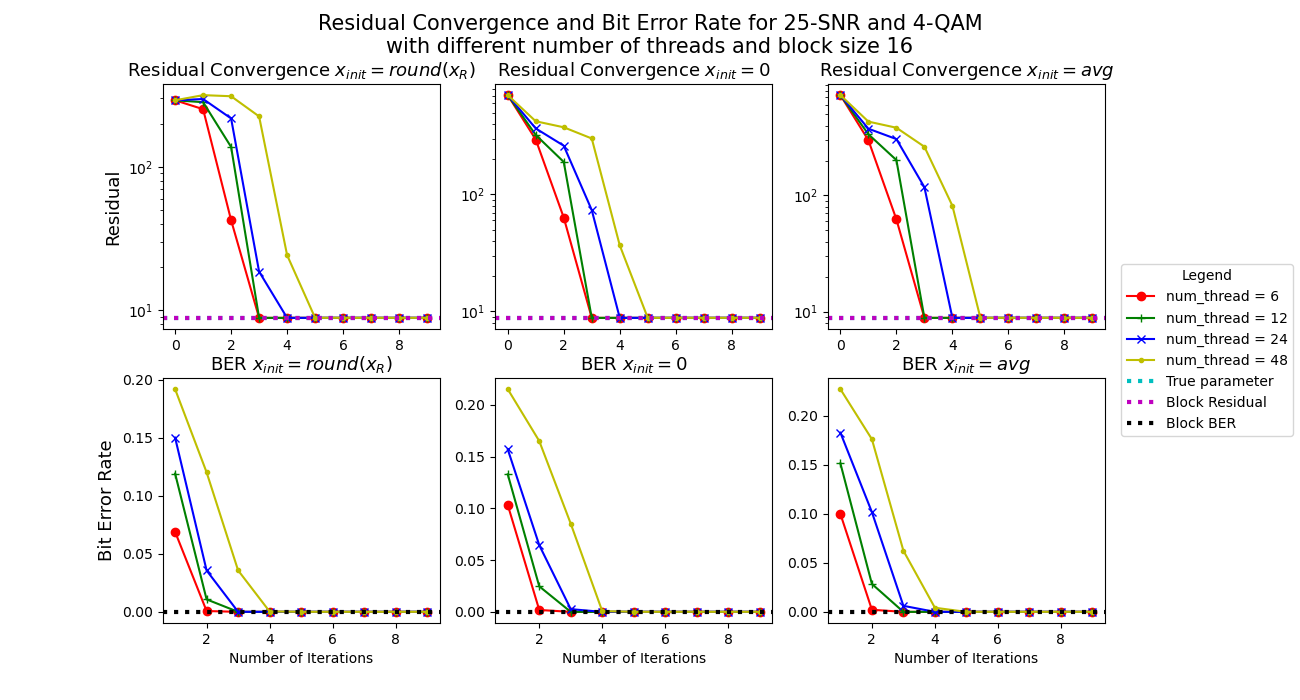
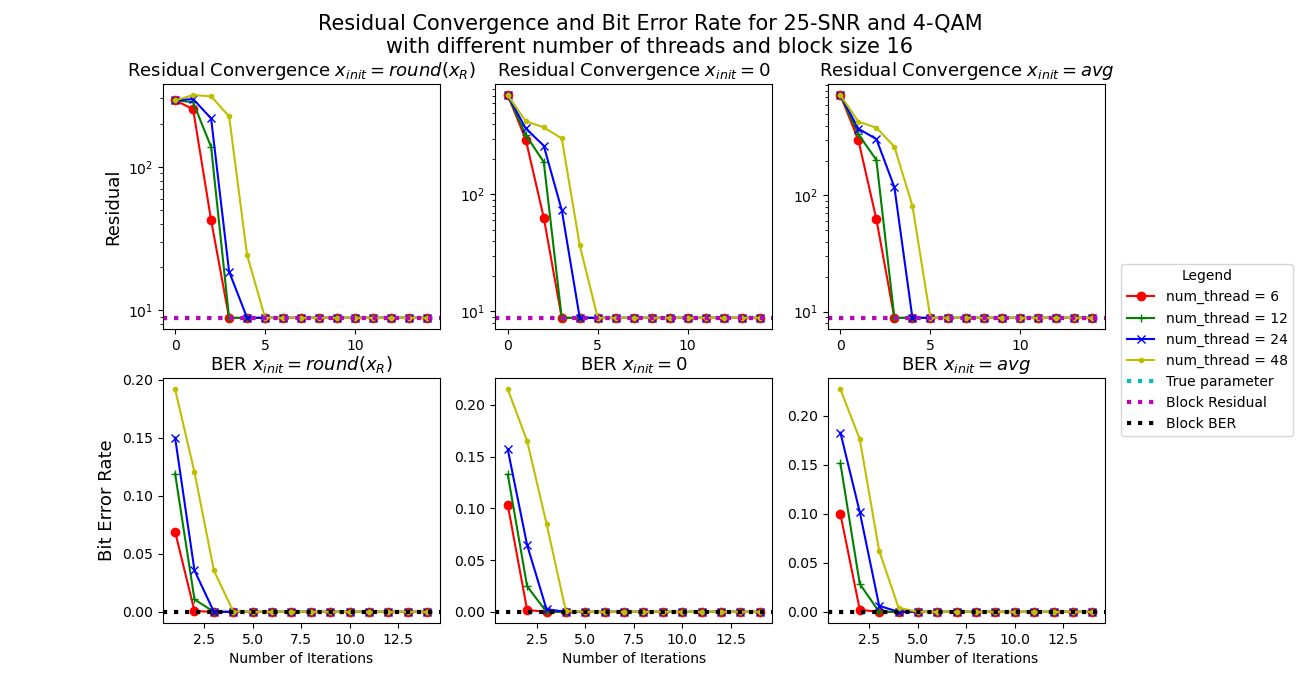
Test R_LLL; Change figures

diff --git a/results/2020_12_05/plot_helper.py b/results/2020_12_05/plot_helper.py
@@ -38,7 +38,7 @@ def plot_residual(n, f, file):
                     res.append(float(line_str[index].split("=")[1]))
                     ber.append(float(line_str[index + 1].split("=")[1]))
                     index = index + 2
-                if SNR != 15:
+                if SNR == 35:
                     if init + 1 == 0:
                         axes[0, init + 1].semilogy(range(0, 10), np.array(res)[0:10], color=color[m],
                                                marker=marker[m], label='num_thread = ' + str(num_thread))
@@ -53,6 +53,21 @@ def plot_residual(n, f, file):
 
                     axes[1, init + 1].plot(range(1, 10), np.array(ber)[1:10], color=color[m],
                                            marker=marker[m])
+                elif SNR == 25:
+                    if init + 1 == 0:
+                        axes[0, init + 1].semilogy(range(0, 15), np.array(res)[0:15], color=color[m],
+                                                   marker=marker[m], label='num_thread = ' + str(num_thread))
+
+                    else:
+                        axes[0, init + 1].semilogy(range(0, 15), np.array(res)[0:15], color=color[m],
+                                                   marker=marker[m])
+                        # axes[0, init + 1].axhline(y=init_res, xmin=0.0, xmax=1.0, color='r', linewidth=3,
+                        #                           linestyle='dotted')
+                        # axes[0, init + 1].axhline(y=ser_res, xmin=0.0, xmax=1.0, color='y', linewidth=3,
+                        #                           linestyle='dotted')
+
+                    axes[1, init + 1].plot(range(1, 15), np.array(ber)[1:15], color=color[m],
+                                           marker=marker[m])
                 else:
                     if init + 1 == 0:
                         axes[0, init + 1].plot(range(0, 40, 5), np.array(res)[1:40:5], color=color[m],
@@ -66,7 +81,7 @@ def plot_residual(n, f, file):
                         # axes[0, init + 1].axhline(y=ser_res, xmin=0.0, xmax=1.0, color='y', linewidth=3,
                         #                           linestyle='dotted')
 
-                    axes[1, init + 1].plot(range(1, 40, 5), np.array(ber)[1:40:5], color=color[m],
+                    axes[1, init + 1].plot(range(2, 40, 5), np.array(ber)[2:40:5], color=color[m],
                                            marker=marker[m])
 
                 k = k + 1
